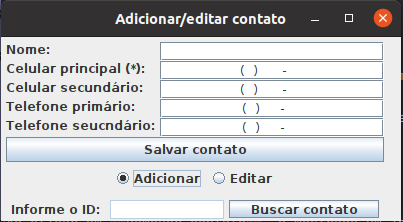
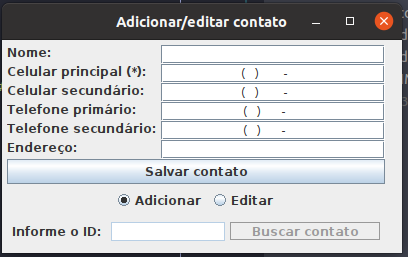
add field address and refactor

diff --git a/src/br/edu/ifsp/arq/dsi/goliveiracod/view/AddAndEditContactView.java b/src/br/edu/ifsp/arq/dsi/goliveiracod/view/AddAndEditContactView.java
@@ -21,9 +21,11 @@ public class AddAndEditContactView extends JFrame {
     private JFormattedTextField formattedTextSecondaryCellphone;
     private JFormattedTextField formattedTextPrimaryPhone;
     private JFormattedTextField formattedTextSecondaryPhone;
+    private JTextField textAddress;
     private JRadioButton radioBtnAdd;
     private JRadioButton radioBtnEdit;
     private JButton btnSave;
+    private JButton btnSearch;
 
     public AddAndEditContactView(ContactController contactController) {
         this.contactController = contactController;
@@ -85,7 +87,7 @@ public class AddAndEditContactView extends JFrame {
         gridBagConstraints.gridy = 3;
         panel.add(formattedTextPrimaryPhone, gridBagConstraints);
 
-        JLabel labelSecondaryPhone = new JLabel("Telefone seucndário: ");
+        JLabel labelSecondaryPhone = new JLabel("Telefone secundário: ");
         gridBagConstraints.gridx = 0;
         gridBagConstraints.gridy = 4;
         panel.add(labelSecondaryPhone, gridBagConstraints);
@@ -96,9 +98,20 @@ public class AddAndEditContactView extends JFrame {
         gridBagConstraints.gridy = 4;
         panel.add(formattedTextSecondaryPhone, gridBagConstraints);
 
-        btnSave = new JButton("Salvar contato");
+        JLabel labelAddress = new JLabel("Endereço: ");
         gridBagConstraints.gridx = 0;
         gridBagConstraints.gridy = 5;
+        panel.add(labelAddress, gridBagConstraints);
+
+        textAddress = new JTextField("");
+        textAddress.setHorizontalAlignment(JTextField.CENTER);
+        gridBagConstraints.gridx = 1;
+        gridBagConstraints.gridy = 5;
+        panel.add(textAddress, gridBagConstraints);
+
+        btnSave = new JButton("Salvar contato");
+        gridBagConstraints.gridx = 0;
+        gridBagConstraints.gridy = 6;
         gridBagConstraints.gridwidth = 2;
         btnSave.addActionListener(this::save);
         panel.add(btnSave, gridBagConstraints);
@@ -117,7 +130,7 @@ public class AddAndEditContactView extends JFrame {
         panelFlowLayoutOptions.add(radioBtnEdit);
 
         gridBagConstraints.gridx = 0;
-        gridBagConstraints.gridy = 6;
+        gridBagConstraints.gridy = 7;
         gridBagConstraints.gridwidth = 2;
         panel.add(panelFlowLayoutOptions, gridBagConstraints);
 
@@ -130,18 +143,18 @@ public class AddAndEditContactView extends JFrame {
         textId.setColumns(10);
         panelFlowLayoutSearchContact.add(textId);
 
-        JButton btnSearch = new JButton("Buscar contato");
+        btnSearch = new JButton("Buscar contato");
         btnSearch.setPreferredSize(new Dimension(150, 18));
         btnSearch.addActionListener(this::searchById);
         panelFlowLayoutSearchContact.add(btnSearch);
 
         gridBagConstraints.gridx = 0;
-        gridBagConstraints.gridy = 7;
+        gridBagConstraints.gridy = 8;
         gridBagConstraints.gridwidth = 2;
         panel.add(panelFlowLayoutSearchContact, gridBagConstraints);
 
         setTitle("Adicionar/editar contato");
-        setSize(400, 220);
+        setSize(400, 250);
         setDefaultCloseOperation(JFrame.DISPOSE_ON_CLOSE);
         setVisible(true);
         setLocationRelativeTo(null);
@@ -150,18 +163,20 @@ public class AddAndEditContactView extends JFrame {
     }
 
     private void save(ActionEvent actionEvent) {
+        String id = textId.getText();
         String name = textName.getText();
         String primaryCellphone = (String) formattedTextPrimaryCellphone.getValue();
         String secondaryCellphone = (String) formattedTextSecondaryCellphone.getValue();
         String primaryPhone = (String) formattedTextPrimaryPhone.getValue();
         String secondaryPhone = (String) formattedTextSecondaryPhone.getValue();
+        String address = textAddress.getText();
 
         try {
-            validateFields(name, primaryCellphone);
+            validateFields(name, primaryCellphone, id, address);
 
             if (radioBtnAdd.isSelected()) {
                 this.contactController.save(
-                        new Contact(name, primaryCellphone, secondaryCellphone, primaryPhone, secondaryPhone)
+                        new Contact(name, primaryCellphone, secondaryCellphone, primaryPhone, secondaryPhone, address)
                 );
                 HelperView.mensagemInformativa("Contato salvo com sucesso!", "Contato adicionado");
             } else {
@@ -173,6 +188,7 @@ public class AddAndEditContactView extends JFrame {
                                 , secondaryCellphone
                                 , primaryPhone
                                 , secondaryPhone
+                                , address
                         )
                 );
                 HelperView.mensagemInformativa("Contato editado com sucesso!", "Contato editado");
@@ -187,14 +203,15 @@ public class AddAndEditContactView extends JFrame {
 
     }
 
-    private void validateFields(String name, String primaryCellphone) {
+    private void validateFields(String name, String primaryCellphone, String id, String address) {
         if (name != null && name.length() < 3)
-            throw new ValidateFieldException("Insira um com 3 ou mais characteres.");
+            throw new ValidateFieldException("Insira um nome com 3 ou mais letras.");
         else if (primaryCellphone == null)
             throw new ValidateFieldException("O celular principal não pode ficar em branco.");
-        else if (textId.isEnabled() && textId.getText() == null) {
+        else if (radioBtnEdit.isSelected() && id == null) {
             throw new ValidateFieldException("Digite um id para prosseguir com a edição");
-        }
+        } else if (address != null && address.length() < 11)
+            throw new ValidateFieldException("Para o endereço ser válido ele precisar ter mais que 10 letras");
     }
 
     private void updateUI(int option) {
@@ -216,15 +233,11 @@ public class AddAndEditContactView extends JFrame {
                 formattedTextSecondaryPhone.setEnabled(true);
                 formattedTextSecondaryPhone.setText("");
                 formattedTextSecondaryPhone.setValue("");
+                textAddress.setEnabled(true);
+                textAddress.setText("");
                 btnSave.setEnabled(true);
+                btnSearch.setEnabled(false);
                 radioBtnAdd.setSelected(true);
-
-                textId.setText("");
-                textName.setText("");
-                formattedTextPrimaryCellphone.setText("");
-                formattedTextSecondaryCellphone.setText("");
-                formattedTextPrimaryPhone.setText("");
-                formattedTextSecondaryPhone.setText("");
                 break;
             case 2:
                 textId.setEnabled(true);
@@ -233,7 +246,9 @@ public class AddAndEditContactView extends JFrame {
                 formattedTextSecondaryCellphone.setEnabled(false);
                 formattedTextPrimaryPhone.setEnabled(false);
                 formattedTextSecondaryPhone.setEnabled(false);
+                textAddress.setEnabled(false);
                 btnSave.setEnabled(false);
+                btnSearch.setEnabled(true);
                 radioBtnEdit.setSelected(true);
                 break;
             case 3:
@@ -243,7 +258,9 @@ public class AddAndEditContactView extends JFrame {
                 formattedTextSecondaryCellphone.setEnabled(true);
                 formattedTextPrimaryPhone.setEnabled(true);
                 formattedTextSecondaryPhone.setEnabled(true);
+                textAddress.setEnabled(true);
                 btnSave.setEnabled(true);
+                btnSearch.setEnabled(false);
                 radioBtnEdit.setSelected(true);
                 break;
         }
@@ -252,23 +269,28 @@ public class AddAndEditContactView extends JFrame {
     private void searchById(ActionEvent actionEvent) {
         updateUI(3);
 
-        Optional<Contact> contactOptional = contactController.findById(Integer.valueOf(textId.getText()));
+        if (textId.getText().isEmpty()) {
+            HelperView.mensagemDeErro("Digite um id para efetuar a busca", "Erro");
+        } else  {
+            Optional<Contact> contactOptional = contactController.findById(Integer.valueOf(textId.getText()));
 
-        if (contactOptional.isPresent()) {
-            contact = contactOptional.get();
-            textId.setText(String.valueOf(contact.getId()));
-            textName.setText(contact.getName());
-            formattedTextPrimaryCellphone.setText(contact.getPrimaryCellphone());
-            formattedTextPrimaryCellphone.setValue(contact.getPrimaryCellphone());
-            formattedTextSecondaryCellphone.setText(contact.getSecondaryCellphone());
-            formattedTextSecondaryCellphone.setValue(contact.getSecondaryCellphone());
-            formattedTextPrimaryPhone.setText(contact.getPrimaryPhone());
-            formattedTextPrimaryPhone.setValue(contact.getPrimaryPhone());
-            formattedTextSecondaryPhone.setText(contact.getSecondaryPhone());
-            formattedTextSecondaryPhone.setValue(contact.getSecondaryPhone());
-        } else {
-            updateUI(2);
-            HelperView.mensagemDeErro("Id não encontrado", "Erro");
+            if (contactOptional.isPresent()) {
+                contact = contactOptional.get();
+                textId.setText(String.valueOf(contact.getId()));
+                textName.setText(contact.getName());
+                formattedTextPrimaryCellphone.setText(contact.getPrimaryCellphone());
+                formattedTextPrimaryCellphone.setValue(contact.getPrimaryCellphone());
+                formattedTextSecondaryCellphone.setText(contact.getSecondaryCellphone());
+                formattedTextSecondaryCellphone.setValue(contact.getSecondaryCellphone());
+                formattedTextPrimaryPhone.setText(contact.getPrimaryPhone());
+                formattedTextPrimaryPhone.setValue(contact.getPrimaryPhone());
+                formattedTextSecondaryPhone.setText(contact.getSecondaryPhone());
+                formattedTextSecondaryPhone.setValue(contact.getSecondaryPhone());
+                textAddress.setText(contact.getAddress());
+            } else {
+                updateUI(2);
+                HelperView.mensagemDeErro("Id não encontrado", "Erro");
+            }
         }
     }
 

diff --git a/src/br/edu/ifsp/arq/dsi/goliveiracod/dao/ContactDAOImpl.java b/src/br/edu/ifsp/arq/dsi/goliveiracod/dao/ContactDAOImpl.java
@@ -20,8 +20,8 @@ public class ContactDAOImpl implements ContactDAO {
 
     @Override
     public void save(Contact contact) {
-        String sql = "INSERT INTO contacts (name, primary_cellphone, secondary_cellphone, primary_phone, secondary_phone)" +
-                " VALUES (?, ?, ?, ?, ?)";
+        String sql = "INSERT INTO contacts (name, primary_cellphone, secondary_cellphone, primary_phone, secondary_phone, address)" +
+                " VALUES (?, ?, ?, ?, ?, ?)";
 
         try (PreparedStatement pstm = connection.prepareStatement(sql)) {
             pstm.setString(1, contact.getName());
@@ -29,6 +29,7 @@ public class ContactDAOImpl implements ContactDAO {
             pstm.setString(3, contact.getSecondaryCellphone());
             pstm.setString(4, contact.getPrimaryPhone());
             pstm.setString(5, contact.getSecondaryPhone());
+            pstm.setString(6, contact.getAddress());
 
             pstm.execute();
         } catch (SQLException sqlException) {
@@ -38,7 +39,7 @@ public class ContactDAOImpl implements ContactDAO {
 
     @Override
     public Optional<List<Contact>> findAll() {
-        String sql = "SELECT id, name, primary_cellphone, secondary_cellphone, primary_phone, secondary_phone FROM contacts";
+        String sql = "SELECT id, name, primary_cellphone, secondary_cellphone, primary_phone, secondary_phone, address FROM contacts";
 
         try (PreparedStatement pstm = connection.prepareStatement(sql)) {
             return getContacts(pstm);
@@ -50,7 +51,7 @@ public class ContactDAOImpl implements ContactDAO {
 
     @Override
     public Optional<List<Contact>> findByName(String name) {
-        String sql = "SELECT id, name, primary_cellphone, secondary_cellphone, primary_phone, secondary_phone FROM contacts " +
+        String sql = "SELECT id, name, primary_cellphone, secondary_cellphone, primary_phone, secondary_phone, address FROM contacts " +
                 "WHERE name LIKE ?";
 
         try (PreparedStatement pstm = connection.prepareStatement(sql)) {
@@ -64,7 +65,7 @@ public class ContactDAOImpl implements ContactDAO {
 
     @Override
     public Optional<Contact> findById(Integer id) {
-        String sql = "SELECT id, name, primary_cellphone, secondary_cellphone, primary_phone, secondary_phone FROM contacts " +
+        String sql = "SELECT id, name, primary_cellphone, secondary_cellphone, primary_phone, secondary_phone, address FROM contacts " +
                 "WHERE id = ?";
 
         try (PreparedStatement pstm = connection.prepareStatement(sql)) {
@@ -81,6 +82,7 @@ public class ContactDAOImpl implements ContactDAO {
                         , rst.getString(4)
                         , rst.getString(5)
                         , rst.getString(6)
+                        , rst.getString(7)
                 ));
             }
 
@@ -94,14 +96,15 @@ public class ContactDAOImpl implements ContactDAO {
     public void update(Contact contact) {
         try (PreparedStatement pstm = connection.prepareStatement("UPDATE contacts " +
                 "SET name = ?, primary_cellphone = ?, secondary_cellphone = ?, primary_phone = ?, " +
-                "secondary_phone = ? WHERE id = ?")) {
+                "secondary_phone = ?, address = ? WHERE id = ?")) {
 
             pstm.setString(1, contact.getName());
             pstm.setString(2, contact.getPrimaryCellphone());
             pstm.setString(3, contact.getSecondaryCellphone());
             pstm.setString(4, contact.getPrimaryPhone());
             pstm.setString(5, contact.getSecondaryPhone());
-            pstm.setInt(6, contact.getId());
+            pstm.setString(6, contact.getAddress());
+            pstm.setInt(7, contact.getId());
 
             pstm.execute();
 
@@ -133,6 +136,7 @@ public class ContactDAOImpl implements ContactDAO {
                         , rst.getString(4)
                         , rst.getString(5)
                         , rst.getString(6)
+                        , rst.getString(7)
                 );
                 contacts.add(contact);
             }

diff --git a/src/br/edu/ifsp/arq/dsi/goliveiracod/model/Contact.java b/src/br/edu/ifsp/arq/dsi/goliveiracod/model/Contact.java
@@ -1,24 +1,41 @@
 package br.edu.ifsp.arq.dsi.goliveiracod.model;
 
 public class Contact {
-    private Integer id;
     private final String name;
     private final String primaryCellphone;
     private final String secondaryCellphone;
     private final String primaryPhone;
     private final String secondaryPhone;
+    private final String address;
+    private Integer id;
 
 
-    public Contact(String name, String primaryCellphone, String secondaryCellphone, String primaryPhone, String secondaryPhone) {
+    public Contact(
+            String name
+            , String primaryCellphone
+            , String secondaryCellphone
+            , String primaryPhone
+            , String secondaryPhone
+            , String address
+    ) {
         this.name = name;
         this.primaryCellphone = primaryCellphone;
         this.secondaryCellphone = secondaryCellphone;
         this.primaryPhone = primaryPhone;
         this.secondaryPhone = secondaryPhone;
+        this.address = address;
     }
 
-    public Contact(Integer id, String name, String primaryCellphone, String secondaryCellphone, String primaryPhone, String secondaryPhone) {
-        this(name, primaryCellphone, secondaryCellphone, primaryPhone, secondaryPhone);
+    public Contact(
+            Integer id
+            , String name
+            , String primaryCellphone
+            , String secondaryCellphone
+            , String primaryPhone
+            , String secondaryPhone
+            , String address
+    ) {
+        this(name, primaryCellphone, secondaryCellphone, primaryPhone, secondaryPhone, address);
         this.id = id;
     }
 
@@ -44,5 +61,9 @@ public class Contact {
 
     public String getSecondaryPhone() {
         return secondaryPhone;
+    }
+
+    public String getAddress() {
+        return address;
     }
 }

diff --git a/src/br/edu/ifsp/arq/dsi/goliveiracod/view/MainView.java b/src/br/edu/ifsp/arq/dsi/goliveiracod/view/MainView.java
@@ -16,7 +16,15 @@ public class MainView extends JFrame {
     private final ContactController contactController;
 
     private final String[] column =
-            {"ID", "NAME", "PRIMARY CELLPHONE", "SECONDARY_CELLPHONE", "PRIMARY PHONE", "SECONDARY PHONE"};
+            {
+                    "ID"
+                    , "NOME"
+                    , "CELULAR PRINCIPAL"
+                    , "CELULAR SECUNDÁRIO"
+                    , "TELEFONE PRINCIPAL"
+                    , "TELEFONE SECUNDÁRIO"
+                    , "ENDEREÇO"
+            };
 
     private JTextField textName;
     private DefaultTableModel modelTableContacts;
@@ -94,7 +102,7 @@ public class MainView extends JFrame {
         panel.add(panelBorderLayout, gridBagConstraints);
 
         setTitle("Projeto prático");
-        setSize(480, 540);
+        setSize(480, 560);
         setJMenuBar(menuBar);
         setDefaultCloseOperation(JFrame.EXIT_ON_CLOSE);
         setVisible(true);
@@ -139,6 +147,7 @@ public class MainView extends JFrame {
                     , contact.getSecondaryCellphone()
                     , contact.getPrimaryPhone()
                     , contact.getSecondaryPhone()
+                    , contact.getAddress()
             };
             data.add(row);
         });

diff --git a/src/br/edu/ifsp/arq/dsi/goliveiracod/factory/ConnectionFactory.java b/src/br/edu/ifsp/arq/dsi/goliveiracod/factory/ConnectionFactory.java
@@ -6,9 +6,8 @@ import java.sql.Connection;
 import java.sql.SQLException;
 
 public class ConnectionFactory {
-    private final MariaDbDataSource mariaDbDataSource;
-
     private static ConnectionFactory connectionFactory;
+    private final MariaDbDataSource mariaDbDataSource;
 
     private ConnectionFactory() {
         mariaDbDataSource =

diff --git a/README.md b/README.md
@@ -53,6 +53,9 @@ Após subir o banco, efetue a criação das tabelas:
   CONSTRAINT id_pk PRIMARY KEY (id)
 );`
 
+`ALTER TABLE contacts ADD COLUMN address varchar(500);
+`
+
 Caso não opte pelo docker, efetue a criação da database manualmente:
 
 `CREATE DATABASE dsi_exape;`
